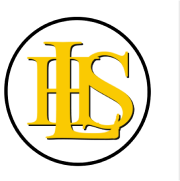
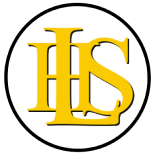
fixed org imagse + added vocabpage (no content)

diff --git a/src/components/Events/Register.js b/src/components/Events/Register.js
@@ -8,10 +8,8 @@ export default function Register(props) {
     const emailKey = email.replace('.', ',');
     const eventName = props.eventName;
     const eventData = props.eventData;
-    const [isChecked, setIsChecked] = useState(false);
     const [isRegistered, setIsRegistered] = useState(false);
     const [atCapacity, setAtCapacity] = useState(false);
-    const registerDisabled = !(email && isChecked);
 
     useEffect(() => {
         const checkRegistration = async () => {
@@ -38,10 +36,6 @@ export default function Register(props) {
         checkCapacity();
     }, [emailKey, eventName]);
 
-    const handleCheckboxChange = () => {
-        setIsChecked(!isChecked);
-    };
-
     const handleButtonClick = async () => {
         try {
             const eventRef = ref(db, `Events/${eventName}`);
@@ -66,35 +60,17 @@ export default function Register(props) {
     };
     
     return (
-        <div className="flex flex-col items-center justify-center gap-5">
-            {!isRegistered ? 
-                <div className="flex flex-row items-center justify-center">
-                    <input
-                        type="checkbox"
-                        id="myCheckbox"
-                        name="myCheckbox"
-                        checked={isChecked}
-                        onChange={handleCheckboxChange}
-                        className="ml-5 mr-5 md:w-16 md:h-16 md:ml-5 md:mr-5 xl:ml-5 xl:mr-10 xl:w-12 xl:h-12 form-checkbox"
-                    />
-                    <label htmlFor="myCheckbox" className="text-xs xl:text-lg">
-                        <b>Event Policy:</b> By agreeing, you acknowledge that you are accountable for showing up to this event—you 
-                        can unregister using the same email. Meeting information will be sent after registration.
-                    </label>
-                </div>
-            : <div/>}
-            <Link to={isRegistered ? '/unregistered' : '/registered'}>
-                <button
-                    onClick={handleButtonClick}
-                    className={`px-2 py-1 mx-2 md:px-4 md:py-2 md:mx-4 md:text-sm text-white rounded ${
-                        ((registerDisabled || (atCapacity && !isRegistered)) && !isRegistered) ? 'bg-gray-400 cursor-not-allowed' : 'bg-indigo-500 hover:bg-neutral-800 rounded-md'
-                    }`}
-                    disabled={!isRegistered ? (registerDisabled || (atCapacity && !isRegistered)) : false}
-                >
-                    {atCapacity}
-                    {isRegistered ? 'Unregister' : atCapacity ? 'Max Capacity' : 'Register'}
-                </button>
-            </Link>
-        </div>
+        <Link to={isRegistered ? '/unregistered' : '/registered'}>
+            <button
+                onClick={handleButtonClick}
+                className={`px-2 py-1 mx-2 md:px-4 md:py-2 md:mx-4 md:text-sm text-white rounded ${
+                    ((props.registerDisabled || (atCapacity && !isRegistered)) && !isRegistered) ? 'bg-gray-400 cursor-not-allowed' : 'bg-indigo-500 hover:bg-neutral-800 rounded-md'
+                }`}
+                disabled={!isRegistered ? (props.registerDisabled || (atCapacity && !isRegistered)) : false}
+            >
+                {atCapacity}
+                {isRegistered ? 'Unregister' : atCapacity ? 'Max Capacity' : 'Register'}
+            </button>
+        </Link>
     );
 }

diff --git a/src/components/Events/EventPage.js b/src/components/Events/EventPage.js
@@ -1,5 +1,5 @@
 import React, { useEffect, useState } from 'react';
-import { useParams } from 'react-router-dom';
+import { useParams, Link } from 'react-router-dom';
 import { getDatabase, ref, get } from 'firebase/database';
 import { Navbar } from '../Navbar/Navbar.js'
 import Register from './Register.js';
@@ -47,6 +47,12 @@ export default function EventPage(props) {
 
     const [email, setEmail] = useState('');
 
+    const handleCheckboxChange = () => {
+        setIsChecked(!isChecked);
+    };
+    const [isChecked, setIsChecked] = useState(false);
+    const registerDisabled = !(email && isChecked);
+
     const handleEmailChange = (e) => {
         const inputEmail = e.target.value;
         const emailPattern = /^[^\s@]+@[^\s@]+\.[^\s@]+$/;
@@ -80,6 +86,7 @@ export default function EventPage(props) {
             <div className="absolute flex flex-col items-center justify-center w-3/5 p-6 transform -translate-x-1/2 -translate-y-1/2 bg-white shadow-2xl sm:flex-row rounded-2xl top-1/5 left-1/2">
                 {/* Event Name + Available Spots */}
                 <img src={eventOrgImg} alt="organization" className="w-fit"/>
+                <div className="hidden sm:inline-block inline-block h-[145px] min-h-[1em] w-0.5 bg-gray-200"></div>
                 {/* Event Information Section */}
                 <div className="flex flex-col justify-center w-full gap-5">
                     {/* Event Date/Time/Location/Level */}
@@ -125,8 +132,27 @@ export default function EventPage(props) {
                             <p className="text-xs xl:text-xl max-[750px]:text-xs">{eventData["Language Level"]}</p>
                         </div>
                     </div>
+                    <div className="flex flex-row items-center justify-center">
+                        <input
+                            type="checkbox"
+                            id="myCheckbox"
+                            name="myCheckbox"
+                            checked={isChecked}
+                            onChange={handleCheckboxChange}
+                            className="ml-5 mr-5 md:w-16 md:h-16 md:ml-5 md:mr-5 xl:ml-5 xl:mr-10 xl:w-12 xl:h-12 form-checkbox"
+                        />
+                        <label htmlFor="myCheckbox" className="text-xs xl:text-lg">
+                            <b>Event Policy:</b> By agreeing, you acknowledge that you are accountable for showing up to this event—you 
+                            can unregister using the same email. Meeting information will be sent after registration.
+                        </label>
+                    </div>
                     {/* Register */}
-                    <div className="flex justify-center">
+                    <div className="flex justify-between mx-60">
+                        <Link to={`/events/${eventName}/vocabulary`}>
+                            <button className="px-2 py-1 mx-2 text-white bg-indigo-500 rounded rounded-md md:px-4 md:py-2 md:mx-4 md:text-sm hover:bg-neutral-800">
+                                Vocab List
+                            </button>
+                        </Link>
                         {user ? (
                             <div>
                                 <Register email={user.email} eventName={eventName} eventData={eventData}/>

diff --git a/src/components/App/App.js b/src/components/App/App.js
@@ -5,6 +5,7 @@ import { getAuth, onAuthStateChanged, signOut } from 'firebase/auth';
 import Home from '../Home/Home.js';
 import Events from '../Events/Events.js';
 import EventPage from '../Events/EventPage.js';
+import VocabPage from '../Events/VocabPage.js';
 import Registered from '../Events/Registered.js';
 import Unregistered from '../Events/Unregistered.js';
 import Resources from '../Resources/Resources.js';
@@ -43,7 +44,9 @@ function App(props) {
         <Routes>
             <Route path="" element={<Home data={props.data} user={user} onSignOut={handleSignOut} />} />
             <Route path="events" element={<Events data={props.data} user={user} onSignOut={handleSignOut} />} />
-            <Route path="/events/:eventName" element={<EventPage data={props.data} user={user} onSignOut={handleSignOut} />} />
+            <Route path="/events/:eventName" element={<EventPage data={props.data} user={user} onSignOut={handleSignOut} />} >
+            </Route>
+            <Route path="/events/:eventName/vocabulary" element={<VocabPage data={props.data} user={user} onSignOut={handleSignOut} />} />
             <Route path="/registered" element={<Registered data={props.data} user={user} onSignOut={handleSignOut} />} />
             <Route path="/unregistered" element={<Unregistered data={props.data} user={user} onSignOut={handleSignOut} />} />
             <Route path="resources" element={<Resources data={props.data} user={user} onSignOut={handleSignOut} />} />

diff --git a/src/components/Events/VocabPage.js b/src/components/Events/VocabPage.js
@@ -1,0 +1,35 @@
+import React, { useEffect, useState } from 'react';
+import { useParams } from 'react-router-dom';
+import { getDatabase, ref, get } from 'firebase/database';
+import { Navbar } from '../Navbar/Navbar.js'
+
+export default function VocabPage(props) {
+    const { eventName } = useParams();
+    const [eventData, setEventData] = useState([]);
+
+    useEffect(() => {
+        const database = getDatabase();
+        const eventsRef = ref(database, `Events/${eventName}`);
+        get(eventsRef)
+        .then((snapshot) => {
+            if (snapshot.exists()) {
+                const event = snapshot.val();
+                setEventData(event);
+            } else {
+                console.log("No data found for events.");
+            }
+        })
+        .catch((error) => {
+            console.error("Error reading events:", error);
+        });
+    }, [eventName, eventData]);
+
+    return (
+        <div>
+            <Navbar user={props.user} />
+            <div className="flex flex-col items-center justify-center m-40">
+                Test
+            </div>
+        </div>
+    );
+}
